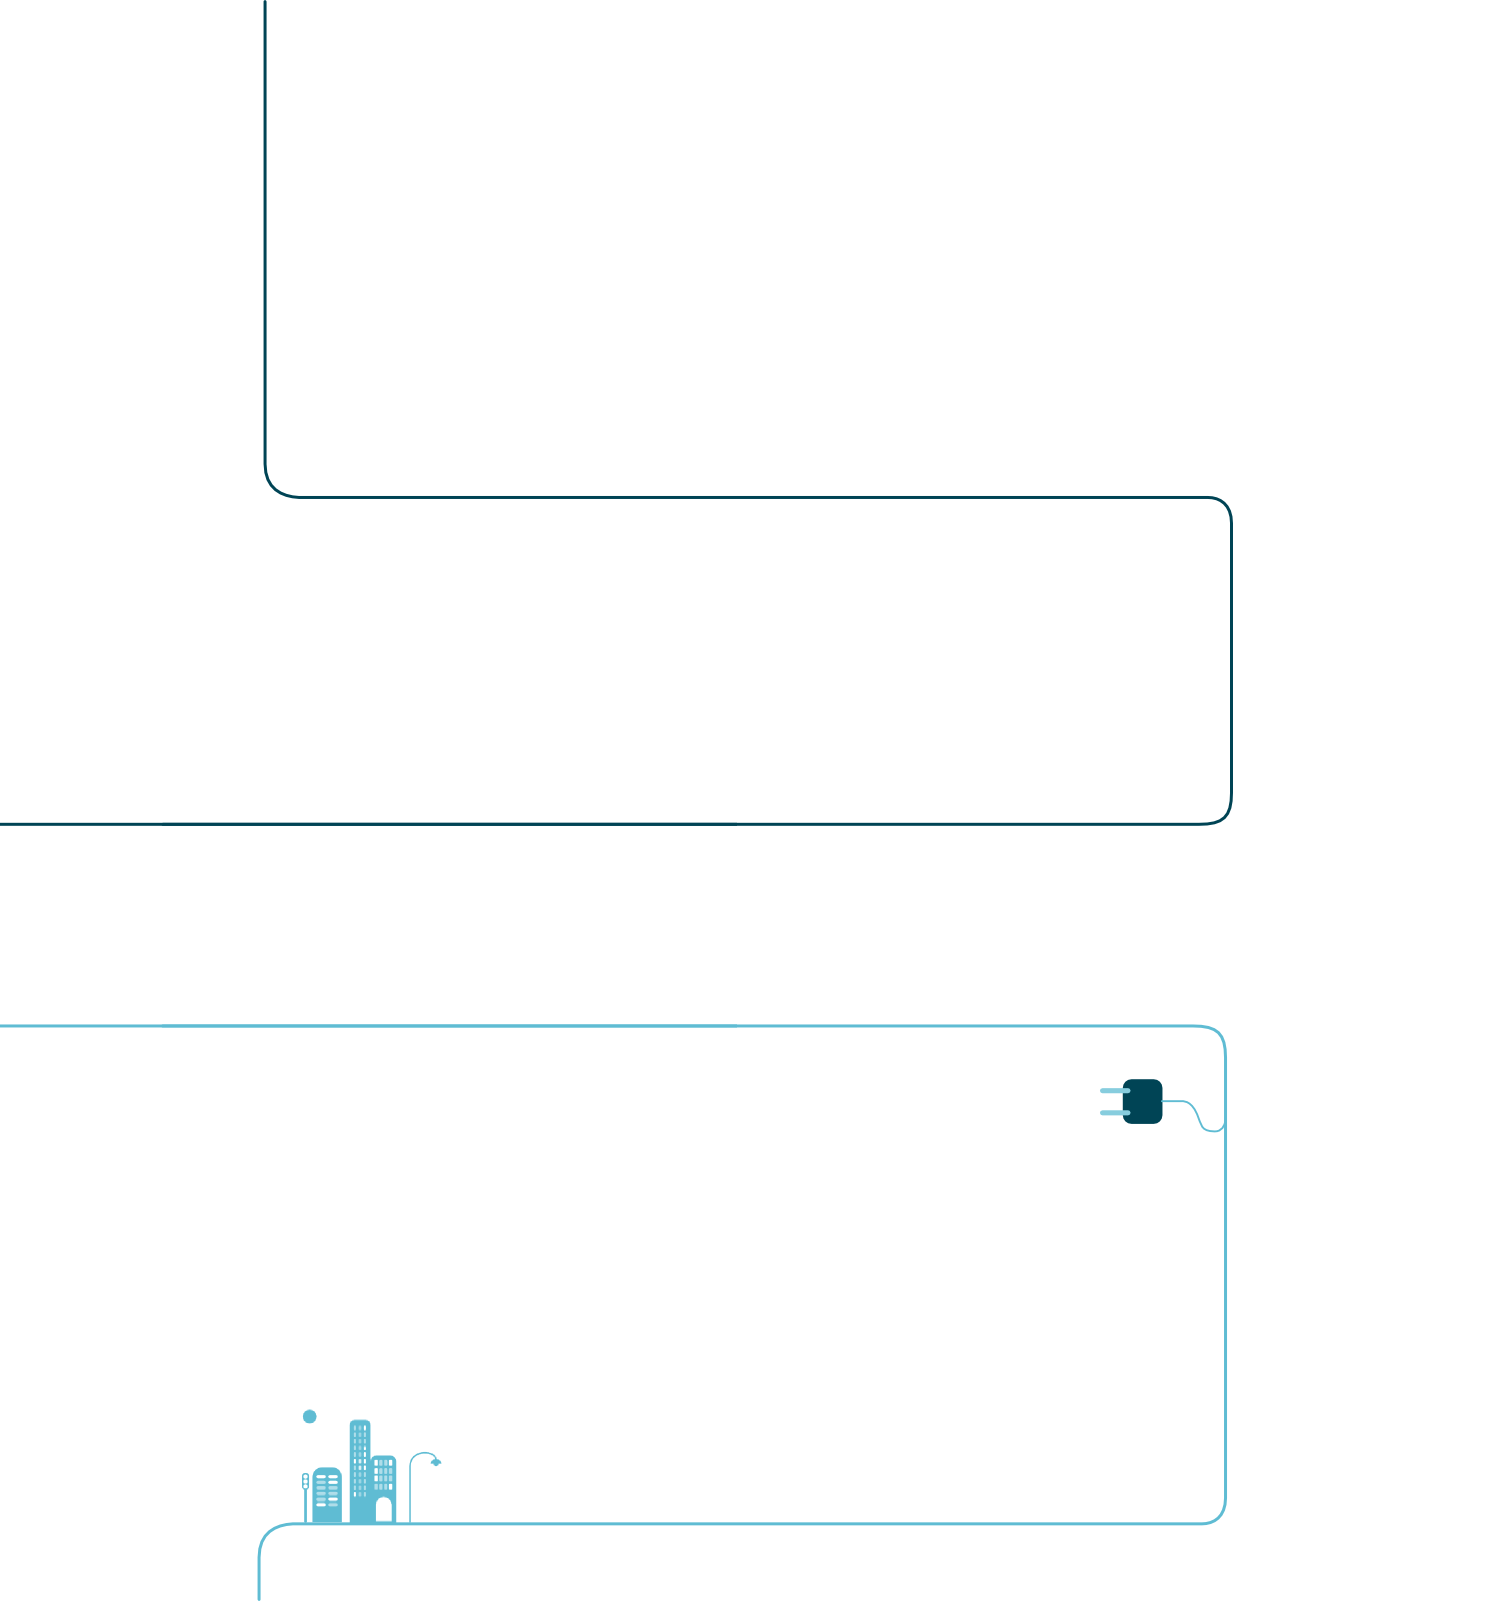
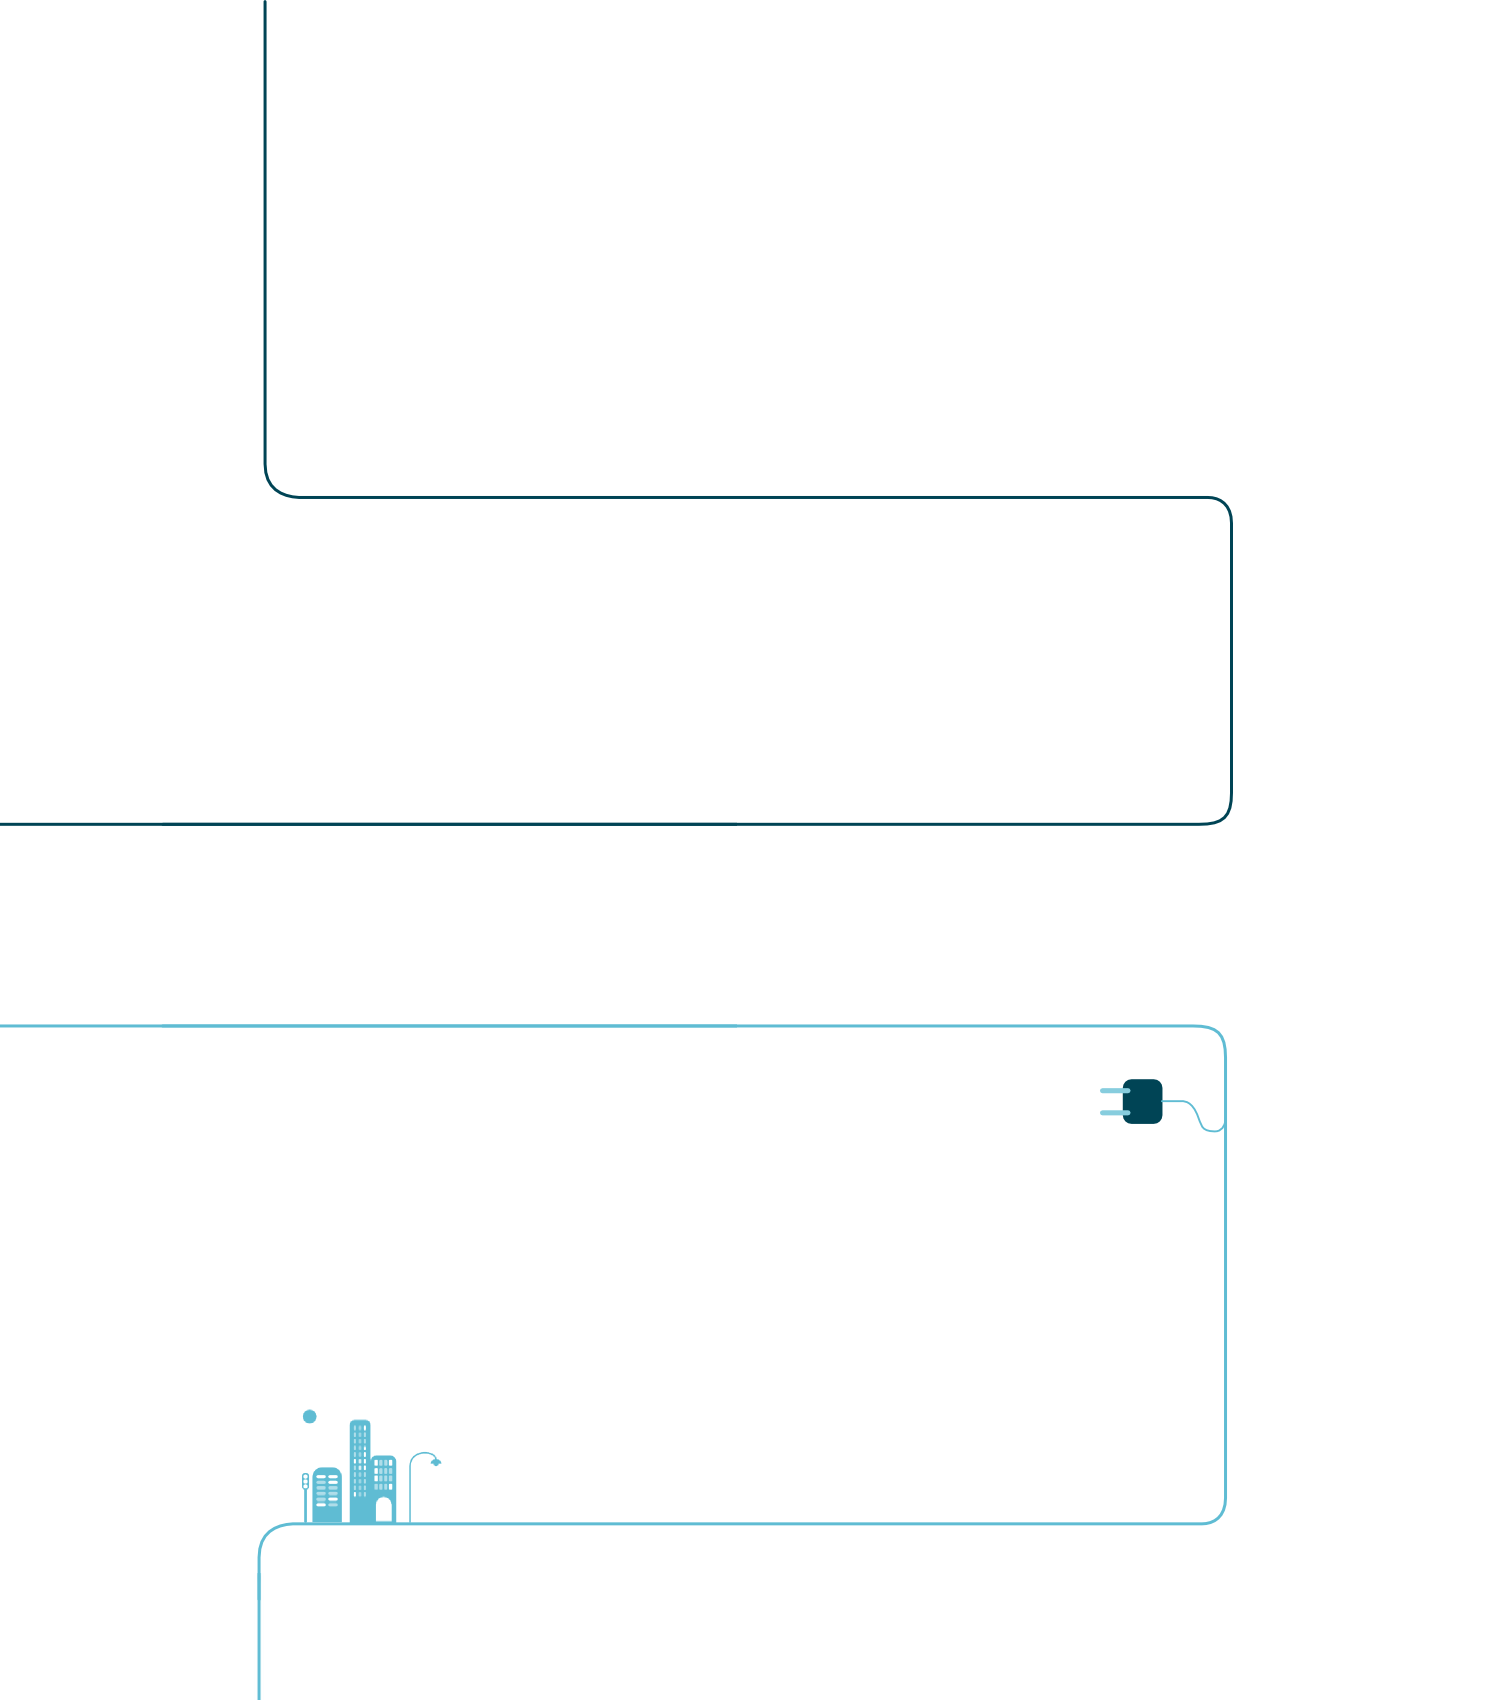
fondos mas largos y prolijos

diff --git a/theme/decosur/css/estilo.css b/theme/decosur/css/estilo.css
@@ -241,7 +241,7 @@ body, html {
 
 #gestion #contenido {
 	position: relative;
-	background: url(../img/bg/gestion.png) center 50px no-repeat #216778;
+	background: url(../img/bg/gestion.png) center 80px no-repeat #216778;
 	height: 1342px;
 }
 
@@ -251,7 +251,7 @@ body, html {
 	left: 0;
 	width: 100%;
 	height: 537px;
-	background: url(../img/bg/gestionfg.png) center 0 no-repeat;
+	background: url(../img/bg/gestionfg.png) center 50px no-repeat;
 }
 #cooperativa #contenido p {
 	line-height: 1.5;
